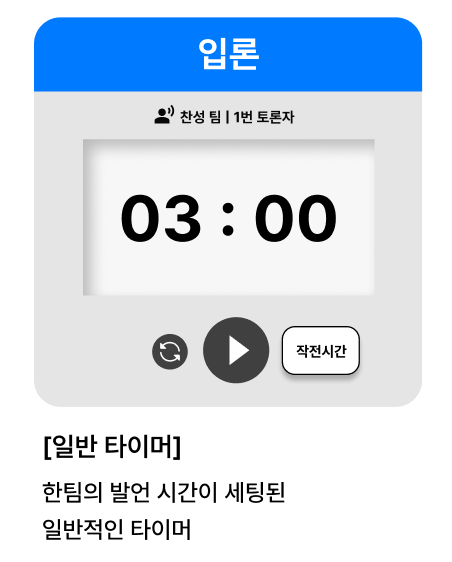
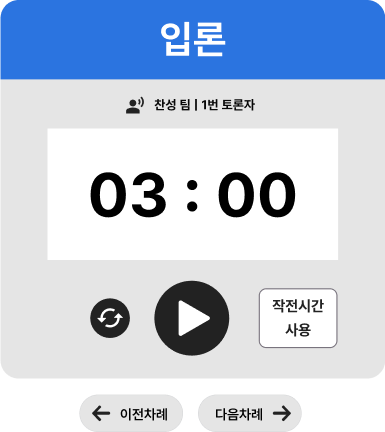
chore: 패키지 추가 및 색상 변경 등 사소한 수정 사항 반영

diff --git a/src/components/icons/Reset.tsx b/src/components/icons/Reset.tsx
@@ -1,0 +1,33 @@
+<svg
+  width="49"
+  height="36"
+  viewBox="0 0 49 36"
+  fill="none"
+  xmlns="http://www.w3.org/2000/svg"
+></svg>;
+
+import { IconProps } from './IconProps';
+
+export default function DTReset({
+  color = 'currentColor',
+  className = '',
+  ...props
+}: IconProps) {
+  return (
+    <svg
+      viewBox="0 0 49 36"
+      fill="none"
+      className={`
+        aspect-[49/36]
+        ${className}
+      `}
+      xmlns="http://www.w3.org/2000/svg"
+      {...props}
+    >
+      <path
+        d="M40.9023 9.40575C40.6615 9.16492 40.271 9.16492 40.0302 9.40575L32.5493 16.8867C32.1608 17.2752 32.4359 17.9394 32.9853 17.9394H38.2238C38.2238 25.3618 32.1917 31.3939 24.7693 31.3939C22.6355 31.3939 20.6013 30.8964 18.8166 29.995C18.6217 29.8965 18.3846 29.9301 18.2302 30.0846L15.6521 32.6626C15.4287 32.886 15.4699 33.2591 15.7423 33.4192C18.3869 34.9728 21.4698 35.8788 24.7693 35.8788C34.6808 35.8788 42.7087 27.8509 42.7087 17.9394H47.9472C48.4966 17.9394 48.7717 17.2752 48.3832 16.8867L40.9023 9.40575ZM11.3147 17.9394C11.3147 10.517 17.3468 4.48485 24.7693 4.48485C26.903 4.48485 28.9372 4.98242 30.7219 5.88382C30.9168 5.98227 31.154 5.94864 31.3084 5.79422L33.8864 3.21618C34.1098 2.99278 34.0687 2.61964 33.7963 2.45962C31.1516 0.906014 28.0688 0 24.7693 0C14.8578 0 6.82987 8.02788 6.82987 17.9394H1.59136C1.04197 17.9394 0.766838 18.6036 1.15532 18.9921L8.63625 26.473C8.87707 26.7139 9.26752 26.7139 9.50835 26.473L16.9893 18.9921C17.3778 18.6036 17.1026 17.9394 16.5532 17.9394H11.3147Z"
+        fill={color}
+      />
+    </svg>
+  );
+}

diff --git a/tailwind.config.js b/tailwind.config.js
@@ -61,6 +61,7 @@ export default {
         'subtitle-raw': ['24px', { lineHeight: '36px' }],
         'detail-raw': ['20px', { lineHeight: '20px' }],
         'body-raw': ['16px', { lineHeight: '16px' }],
+        'timer-raw': ['110px'],
       },
       boxShadow: {
         'camp-blue': `0 0 30px #FF3B2F`,
@@ -69,8 +70,8 @@ export default {
       },
       colors: {
         camp: {
-          red: '#F64740',
-          blue: '#2B74E1',
+          red: '#E14666',
+          blue: '#1E91D6',
         },
         brand: {
           DEFAULT: '#FECD4C',
@@ -84,6 +85,7 @@ export default {
           timeout: '#4F4F4F',
           white: '#FFFFFF',
           black: '#222222',
+          black2: '#404040',
         },
         semantic: {
           warning: '#FF8B87',

diff --git a/src/components/icons/Play.tsx b/src/components/icons/Play.tsx
@@ -1,0 +1,25 @@
+import { IconProps } from './IconProps';
+
+export default function DTPlay({
+  color = 'currentColor',
+  className = '',
+  ...props
+}: IconProps) {
+  return (
+    <svg
+      viewBox="0 0 59 67"
+      fill="none"
+      className={`
+        aspect-[59/67]
+        ${className}
+      `}
+      xmlns="http://www.w3.org/2000/svg"
+      {...props}
+    >
+      <path
+        d="M56.6871 30.2524C59.1871 31.6958 59.1871 35.3042 56.6871 36.7476L5.73172 66.1667C3.23172 67.6101 0.106717 65.8059 0.106717 62.9191L0.106719 4.08088C0.10672 1.19413 3.23172 -0.610097 5.73172 0.833279L56.6871 30.2524Z"
+        fill={color}
+      />
+    </svg>
+  );
+}

diff --git a/src/type/type.ts b/src/type/type.ts
@@ -55,7 +55,7 @@ export interface DebateTableData {
 export type TimerBGState = 'default' | 'warning' | 'danger' | 'expired';
 export const bgColorMap: Record<TimerBGState, string> = {
   default: '',
-  warning: 'bg-brand-main', // 30초~11초 구간
-  danger: 'bg-brand-sub3', // 10초 이하
-  expired: 'bg-neutral-700', // 0초 이하
+  warning: 'bg-brand', // 30초~11초 구간
+  danger: 'bg-semantic-warning', // 10초 이하
+  expired: 'bg-default-timeout', // 0초 이하
 };

diff --git a/src/index.css b/src/index.css
@@ -30,6 +30,10 @@
   @apply text-body-raw;
 }
 
+.text-timer {
+  @apply text-timer-raw font-bold;
+}
+
 /* Timebox styles */
 .timebox {
   @apply relative flex h-[92px] select-none flex-col items-center justify-center rounded-[12px] p-[12px];
